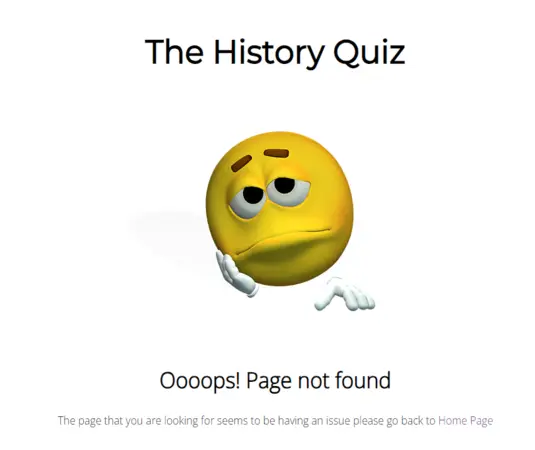
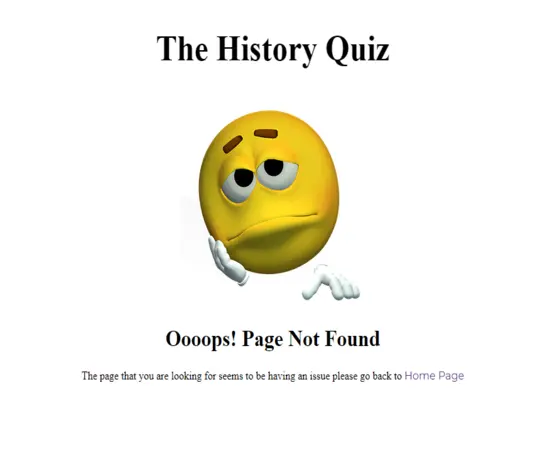
add comments to js file, add 404ErrorPage testing table to readme and update photo, grammar, css restyle

diff --git a/assets/js/script.js b/assets/js/script.js
@@ -7,7 +7,7 @@ import {
 } from "./game.js";
 /**
  * Buttons to access its containers and Global Variables
- * Watched various tutorials on youtube which I will leave below-
+ * I have watched some tutorials on Youtube that have helped me with understanding and learning new features along the project, I will leave them below:
  * https://www.youtube.com/watch?v=riDzcEQbX6k&ab_channel=WebDevSimplified
  * https://www.youtube.com/watch?v=PBcqGxrr9g8&ab_channel=GreatStack
  * https://www.youtube.com/watch?v=rFWbAj40JrQ&list=PLB6wlEeCDJ5Yyh6P2N6Q_9JijB6v4UejF&index=1&ab_channel=JamesQQuick
@@ -105,7 +105,7 @@ startButton.addEventListener('click', () => {
 });
 
 /**
- * By pressing Start it will ask the user wether he/she wants to stop the Quiz
+ * By pressing Start it will ask the user whether he/she wants to stop the Quiz
  * Event listener to take you back to Main Menu
  */
 backToMainMenu.addEventListener('click', () => {
@@ -122,7 +122,7 @@ function selectDifficulty() {
     startMenu.classList.add('hide');
     difficultyContainerElement.classList.remove('hide');
     questionContainerElement.classList.add('hide');
-    //This line was added to reset the score incase the user goes back to difficulty menu
+    //This line was added to reset the score in case the user goes back to difficulty menu
     document.getElementById("correct-answers-score").innerText = 0;
 }
 backButton.addEventListener('click', selectMainMenu);
@@ -172,7 +172,7 @@ function resetState() {
     }
 }
 
-// This function is to reset everyhting after playing first time, was having issues as the Score Area and Back button weren't being displayed
+// This function is to reset everything after playing first time, was having issues as the Score Area and Back button weren't being displayed
 function resetQuestionContainer() {
     // This will display Main Menu button
     backToIndexButton.style.display = 'none';
@@ -190,7 +190,7 @@ function showQuestion() {
     resetQuestionContainer();
     // This function will show current question
     // Data for the questions will be collected from game.js file
-    // It will pick the questions from the mode you have choosen
+    // It will pick the questions from the mode you have chosen
     // Each mode will have their questions shuffled, by using Math.floor and Math.random * their length
     if (difficulty == easy) {
         eachModeQuestions = easyQuestions;
@@ -207,7 +207,7 @@ function showQuestion() {
     }
     questionElement.innerHTML = currentQuestion.question;
 
-    // This will workout what question you are on and display it
+    // This will work out what question you are on and display it
     currentQuestionCounterIndex++;
     answeredQuestionsCounter.innerHTML = `${currentQuestionCounterIndex}/10`;
 
@@ -259,7 +259,7 @@ function selectAnswer(event) {
         selectedAnswerButton.classList.add("wrong-answer");
     }
 
-    // Soon as the answer is selected whether is correct or wrong, all answers will be locked.
+    // Soon as the answer is selected whether is correct or wrong, all answer buttons will be disabled.
     Array.from(answerButtons.children).forEach(button => {
         if (button.dataset.correct === "true") {
             button.classList.add("correct-answer");
@@ -321,9 +321,9 @@ submitButton.addEventListener('click', function (event) {
 });
 
 /**
- * This Function will localstore the username 
+ * This Function will localStore the username 
  * so we can display it in the title and at the end of the game.
- * Watched on youtube https://www.youtube.com/watch?v=KB6Yg5hNrqc&ab_channel=KeithPaterson
+ * Watched on Youtube to help me understanding https://www.youtube.com/watch?v=KB6Yg5hNrqc&ab_channel=KeithPaterson
  */
 function usernameSubmit() {
     let inputUsername = document.getElementById("usernameInput").value;
@@ -347,9 +347,9 @@ function showScoreboard() {
         username: `${username}`
     };
 
-    // This is to prevent from showing null in scoreboard if the user hasn't played yet
+    // This is to prevent the scores to be shown null if username hasn't played yet, instead it will show an empty scoreboard
+    // If statement used to check it 
     if (score.score === null || score.username == "") {
-        //This is to prevent the scores to be shown null if username hasn't played yet, instead it will show an empty scoreboard
         showScoreList.innerHTML = scoreboard
             .map(score => {
                 return `<li class="score-list">${score.username} - ${score.score}</li>`;
@@ -364,9 +364,12 @@ function showScoreboard() {
         // To convert into a string
         localStorage.setItem('scoreboard', JSON.stringify((scoreboard)));
         showScoreList.innerHTML = scoreboard
+            // Map method to convert array and return a string of <li> elements (username and score in it)
             .map(score => {
+                // Add a class to decorate the <li> with CSS
                 return `<li class="score-list">${score.username} - ${score.score}</li>`;
             })
+            // To return a new string
             .join("");
     }
 }

diff --git a/assets/css/style.css b/assets/css/style.css
@@ -407,8 +407,8 @@ ul li {
 
 @media screen and (max-width: 576px) {
     #title-container {
-        margin-top: 70px;
-        margin-bottom: 70px;
+        margin-top: 50px;
+        margin-bottom: 50px;
     }
 
     .index-page-title {
@@ -448,6 +448,7 @@ ul li {
     }
 
     .network-container {
+        margin-top: 50px;
         margin-bottom: 0;
     }
 

diff --git a/README.md b/README.md
@@ -73,7 +73,7 @@ The website:
     - SCOREBOARD - option will display the scoreboard of the quiz.
     - Input box - for the username to type the name in order to play the quiz.
     - SUBMIT - button to submit the username.
-    - If user try's to start without entering username, an alert box will pop up to ask the user to enter username.
+    - If user tries to start without entering username, an alert box will pop up to ask the user to enter username.
 - Once in the difficulty menu the user will be able to select three option modes:
     - EASY - The easiest mode for starters.
     - MEDIUM - The medium mode for users with some knowledge.
@@ -205,7 +205,7 @@ Colours used:
 
 - #### Questions Container
 
-    - Once selected the mode  you will have this container with the questions.
+    - Once selected the mode you will have this container with the questions.
     - As you select the answer, it will show you whether you have got it right or not:
       - Correct Answers - Shown in green
       - Wrong Answers - Shown in red  
@@ -350,9 +350,9 @@ I did focus on making sure that the website is accessible:
 
 ---
 
-`Main Menu`
+### Main Menu
 
-| Feature | Expected Outcome | Testing | Result | Pass of Fail |
+| Feature | Expected Outcome | Testing | Result | Pass or Fail |
 | --- | --- | --- | --- | --- |
 | Website Title | Expected to take user back to Index/Home page | Clicked on it | Reload/Taken back to Index/Home page | Pass |
 | Start Button | Expected to take user to Difficulty Menu | Clicked on it | Taken to Difficulty Container | Pass |
@@ -367,9 +367,9 @@ I did focus on making sure that the website is accessible:
 
  <br>
  
-`Difficulty Menu`
+### Difficulty Menu
 
-| Feature | Expected Outcome | Testing | Result | Pass of Fail |
+| Feature | Expected Outcome | Testing | Result | Pass or Fail |
 | --- | --- | --- | --- | --- |
 | Website Title | Expected to take user back to Index/Home page | Clicked on it | Reload/Taken back to Index/Home page | Pass |
 | Easy Button | Expected to Start quiz in Easy mode | Clicked on it | Easy mode quiz Started | Pass |
@@ -379,9 +379,9 @@ I did focus on making sure that the website is accessible:
 
  <br>
 
- `Question Container`
+### Question Container
 
-| Feature | Expected Outcome | Testing | Result | Pass of Fail |
+| Feature | Expected Outcome | Testing | Result | Pass or Fail |
 | --- | --- | --- | --- | --- |
 | Website Title | Expected to take user back to Index/Home page | Clicked on it | Reload/Taken back to Index/Home page | Pass |
 | Quiz progress bar on the top left | Expected to show the user what question are on | Done the Quiz | Progress bar increases as you progress through the Quiz | Pass |
@@ -393,13 +393,23 @@ I did focus on making sure that the website is accessible:
 
  <br>
 
-`End Game/Score Shown`
+### End Quiz/Score Shown
 
-| Feature | Expected Outcome | Testing | Result | Pass of Fail |
+| Feature | Expected Outcome | Testing | Result | Pass or Fail |
 | --- | --- | --- | --- | --- |
 | Website Title | Expected to take user back to Index/Home page | Clicked on it | Reload/Taken back to Index/Home page | Pass |
-| End Game | Expected to tell the User How many points were obtained | Followed the instructions | Once Quiz done it did show the points obtained | Pass |
+| End Quiz | Expected to tell the User How many points were obtained | Followed the instructions | Once Quiz done it did show the points obtained | Pass |
 | Back Button | Expected to take user Back to Main Menu | Clicked on it | Taken to Main Menu | Pass |  
+
+ <br>
+ 
+### 404 Error Page
+
+| Feature | Expected Outcome | Testing | Result | Pass or Fail |
+| --- | --- | --- | --- | --- |
+| Website Title | Expected to take user back to Index/Home page | Clicked on it | Reload/Taken back to Index/Home page | Pass |
+| Sad Emoti and some info | Telling the user that an issue with the website has occurred | Tried it | Once on the page, the info was shown as expected | Pass |
+| Home Page Button | Expected to take user Back to Home Page | Clicked on it | Taken to Home Page | Pass |  
 
  <br>
 
@@ -410,7 +420,7 @@ I did focus on making sure that the website is accessible:
 ## Bugs
 
 - The website had a bug that when a bigger container showed for example the instructions container, it would make the background messy as in moving out of place and zoom in.
-    - So to fix it I had to make the background image fixed by doing 
+    - So, to fix it I had to make the background image fixed by doing 
     ```ruby
     background-attachment: fixed;
     ```
@@ -421,7 +431,7 @@ I did focus on making sure that the website is accessible:
     ```
      on to ```function selectDifficulty()```, in order to reset it.
 - For new users or users that cleared cache and pressed Scoreboard straight away before playing the Quiz. Had a bug which was showing "null - null" in the scoreboard.
-  - To avoid that issue I have added an if statement to show an empty scoreboard
+  - To avoid that issue I have added an if statement to show an empty scoreboard.
   ```ruby
   if (score.score === null || score.username == "") {
         showScoreList.innerHTML = scoreboard
@@ -431,7 +441,7 @@ I did focus on making sure that the website is accessible:
             .join("");
     }
   ```
-- If User wanted to play the quiz more then once, after first time, the question container was having issues in displaying score area and back button.
+- If User wanted to play the quiz more than once, after first time, the question container was having issues in displaying score area and back button.
   - So to fix this bug I had to add a new ```function resetQuestionContainer()``` to reset the style display of the same ones.
   <br>
 
@@ -443,7 +453,8 @@ I did focus on making sure that the website is accessible:
 
 ### My Deployment
 
-- The website was deployed to Github pages. Steps to deploy: 
+- The website was deployed to Github pages. Steps to deploy:  
+
   1. Open Github
   2. Log in into your Github account. 
   3. In the Github repository select the project. 
@@ -451,28 +462,29 @@ I did focus on making sure that the website is accessible:
   5. Then scroll down and on your left select Pages. 
   6. Go to branch, and select master branch. 
   7. Once master branch is selected, wait a moment and it will provide a page link to the website.  
+
   <br>
-- The live link can be found here - [My Website](https://b1ndark.github.io/project2/)
+- The live link can be found here - [My Website](https://b1ndark.github.io/project2/).
   <br>
 
 ### Local Deployment
 
 #### Fork the repository
 
-  1. Open Github
-  2. Log in or Sign up
-  3. Look for my repository [The History Quiz](https://github.com/b1ndark/project2)
-  4. Last on the right corner you will find the fork button(click it).
+  1. Open Github.
+  2. Log in or Sign up.
+  3. Look for my repository [The History Quiz](https://github.com/b1ndark/project2).
+  4. Last on the right corner you will find the fork button(click on it).
 
 #### Clone the repository
   1. Open Github
   2. Log in or Sign up
   3. Look for my repository [The History Quiz](https://github.com/b1ndark/project2)
-  4. Look for code button next to the gitpod button at the top right(click it)
-  5. A window will pop up with options for you to select to clone it with such as HTTPS, SSH or GitHub CLI
+  4. Look for code button next to the gitpod button at the top right(click on it).
+  5. A window will pop up with options for you to select to clone it with such as HTTPS, SSH or GitHub CLI.
   6. Once selected copy the link that is shown.
-  7. Open your code editor terminal
-  8. Type ```git clone``` in the terminal and paste the copied repository link
+  7. Open your code editor terminal.
+  8. Type ```git clone``` in the terminal and paste the copied repository link.
   9. After all that just Press enter to create the clone.
 
 
@@ -486,12 +498,12 @@ I did focus on making sure that the website is accessible:
 
 - ### Content
 
-    - I have Searched for some questions regarding History, I have left the website links and tools below:
+    - I have searched for some questions regarding past history, I have left the website links and tools below:
       - [kwizzbit](https://kwizzbit.com/history-quiz-questions-and-answers/)
       - [Thought Catalog](https://thoughtcatalog.com/katee-fletcher/2020/04/history-trivia-questions/)
-      - [Google Search](https://www.google.com/)
+      - [Google Search](https://www.google.com/) - Used it to look for and confirm some facts regarding some of the questions.
 
-    - I have watched some tutorials on youtube which I will leave below:
+    - I have watched some tutorials on Youtube that have helped me with understanding and learning new features along the project, I will leave them below:
       - [Web Dev Simplified](https://www.youtube.com/watch?v=riDzcEQbX6k&ab_channel=WebDevSimplified)
       - [GreatStack](https://www.youtube.com/watch?v=PBcqGxrr9g8&ab_channel=GreatStack)
       - [James Q Quick](https://www.youtube.com/watch?v=rFWbAj40JrQ&list=PLB6wlEeCDJ5Yyh6P2N6Q_9JijB6v4UejF&index=1&ab_channel=JamesQQuick)
